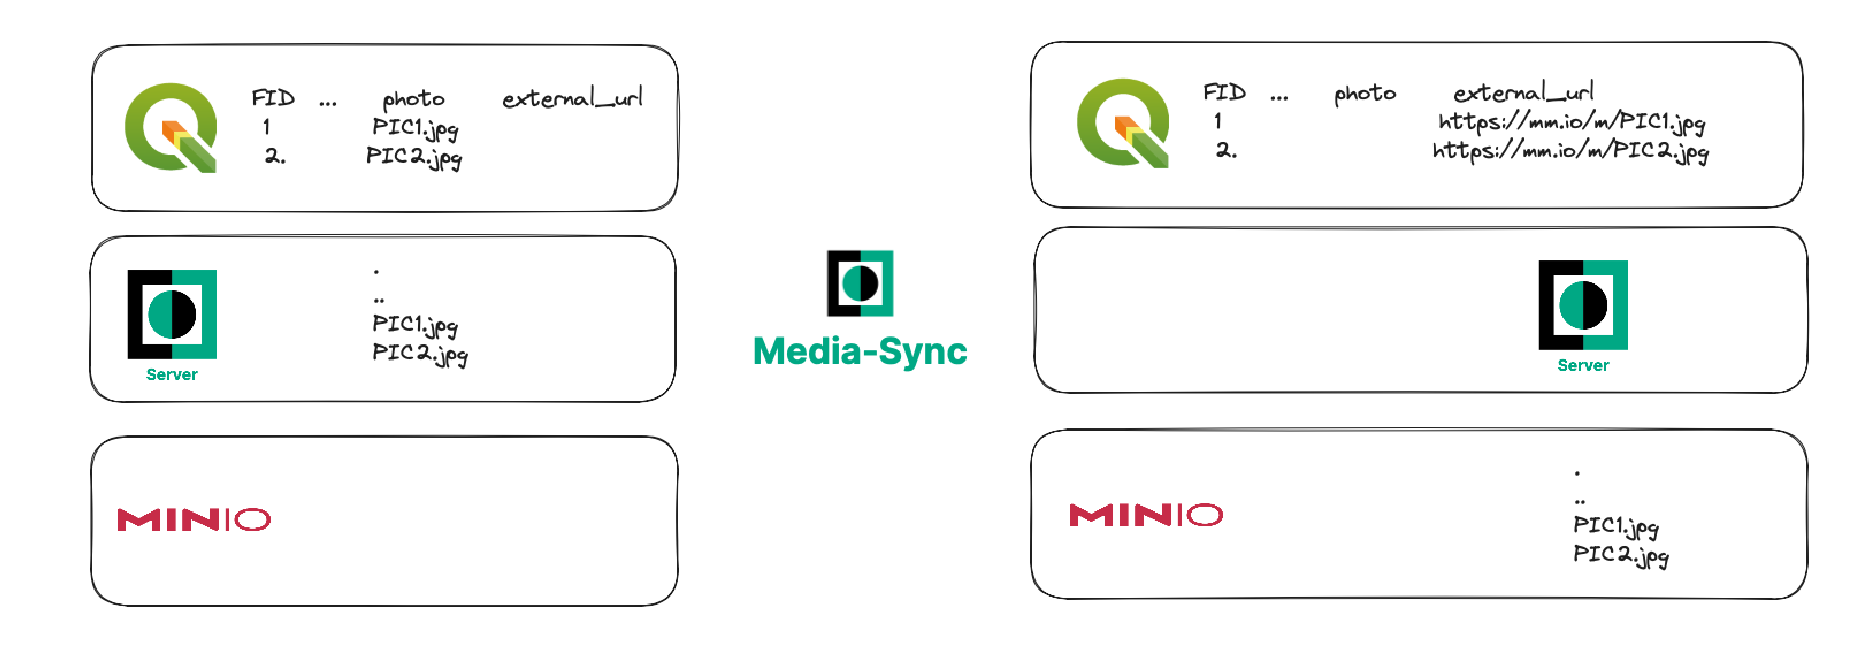
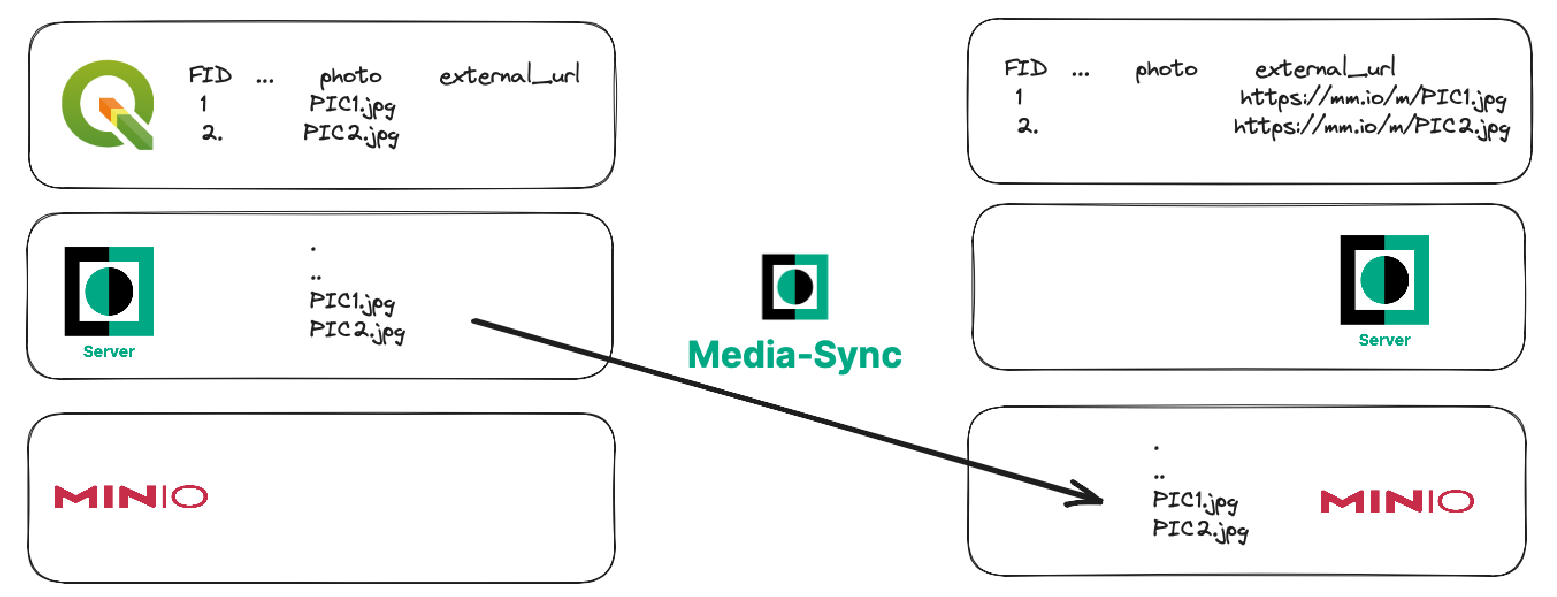
add desc

diff --git a/README.md b/README.md
@@ -16,7 +16,7 @@ Not sure where to start? Check out our [quick start](docs/quick_start.md) guide 
 
 <div><img align="left" width="45" height="45" src="https://raw.githubusercontent.com/MerginMaps/docs/main/src/.vuepress/public/slack.svg"><a href="https://merginmaps.com/community/join">Join our community chat</a><br/>and ask questions!</div><br />
 
-Basic principle is that media-sync deamon COPY or MOVE your pictures from Mergin Maps server to other storage backend. 
+Basic principle is that media-sync deamon COPY or MOVE your pictures from Mergin Maps server to other storage backend. Here is an example of MOVE operation:
 ![Overview](docs/images/overview.png)
 
 #### Running with Docker
